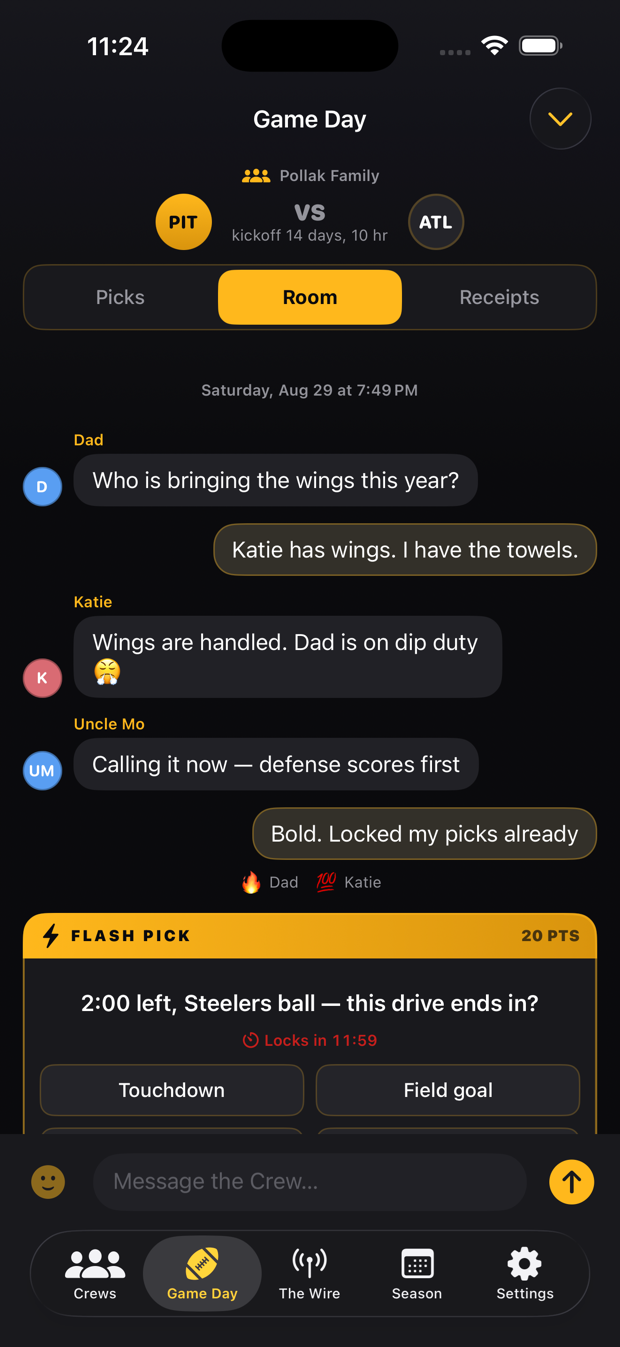
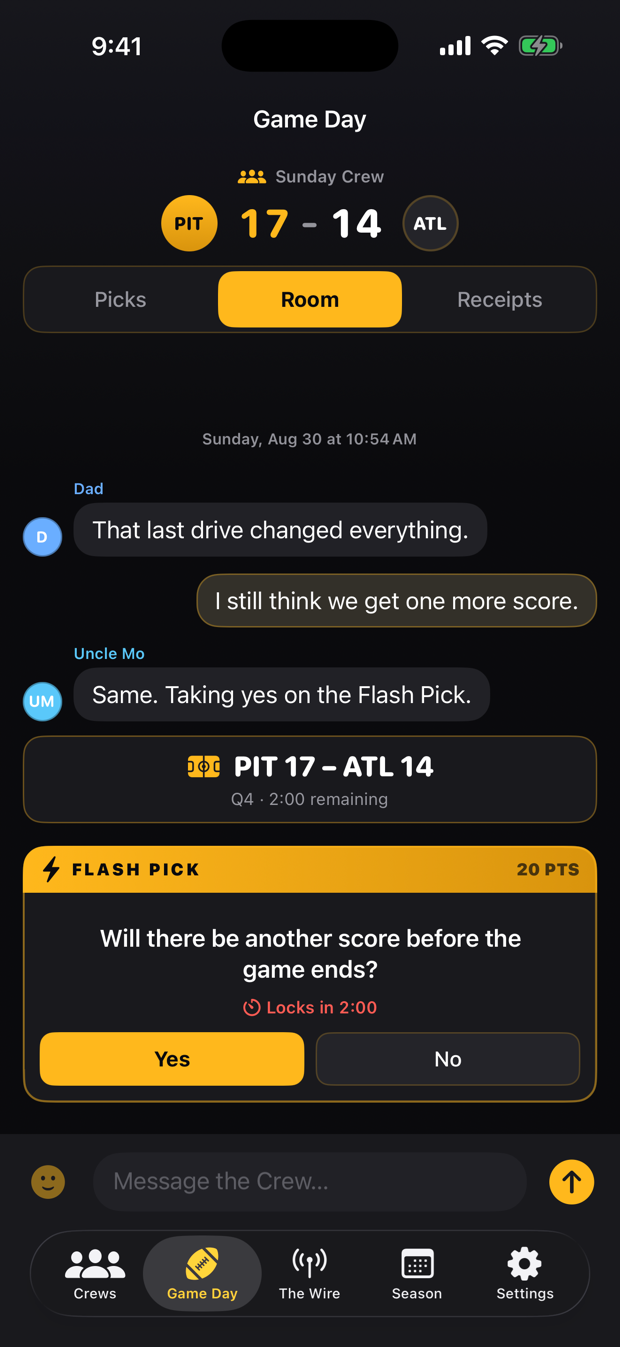
Explain required sign-in and account benefits

diff --git a/index.html b/index.html
@@ -4,14 +4,14 @@
   <meta charset="utf-8">
   <meta name="viewport" content="width=device-width, initial-scale=1">
   <title>Steel City Gameday | Steelers Picks, Polls and Crews</title>
-  <meta name="description" content="Steel City Gameday is an iPhone app for Steelers fans that adds picks, live polls, private Crew chat, and season-long standings to every game.">
+  <meta name="description" content="Steel City Gameday turns every Steelers game into a private competition with pregame picks, live Flash Picks, Crew chat, and one running season score.">
   <meta name="robots" content="index,follow,max-image-preview:large">
   <meta name="theme-color" content="#08090b">
   <link rel="canonical" href="https://steelcitygameday.com/">
   <link rel="sitemap" type="application/xml" href="https://steelcitygameday.com/sitemap.xml">
 
   <meta property="og:title" content="Steel City Gameday | Steelers Picks, Polls and Crews">
-  <meta property="og:description" content="Steel City Gameday is an iPhone app for Steelers fans that adds picks, live polls, private Crew chat, and season-long standings to every game.">
+  <meta property="og:description" content="Pregame picks. Live Flash Picks. One private Crew competition that runs all season.">
   <meta property="og:type" content="website">
   <meta property="og:url" content="https://steelcitygameday.com/">
   <meta property="og:site_name" content="Steel City Gameday">
@@ -22,7 +22,7 @@
   <meta property="og:image:alt" content="Steel City Gameday family Crew chatting and answering a live Flash Pick">
   <meta name="twitter:card" content="summary_large_image">
   <meta name="twitter:title" content="Steel City Gameday | Steelers Picks, Polls and Crews">
-  <meta name="twitter:description" content="Steel City Gameday is an iPhone app for Steelers fans that adds picks, live polls, private Crew chat, and season-long standings to every game.">
+  <meta name="twitter:description" content="Pregame picks. Live Flash Picks. One private Crew competition that runs all season.">
   <meta name="twitter:image" content="https://steelcitygameday.com/assets/og-v3.png">
   <meta name="twitter:image:alt" content="Steel City Gameday family Crew chatting and answering a live Flash Pick">
 
@@ -35,7 +35,7 @@
         "@id": "https://steelcitygameday.com/#website",
         "url": "https://steelcitygameday.com/",
         "name": "Steel City Gameday",
-        "description": "Steel City Gameday is an iPhone app for Steelers fans that adds picks, live polls, private Crew chat, and season-long standings to every game.",
+        "description": "Steel City Gameday turns every Steelers game into a private competition with pregame picks, live Flash Picks, Crew chat, and one running season score.",
         "inLanguage": "en-US"
       },
       {
@@ -43,7 +43,7 @@
         "@id": "https://steelcitygameday.com/#app",
         "name": "Steel City Gameday",
         "url": "https://steelcitygameday.com/",
-        "description": "Steel City Gameday is an iPhone app for Steelers fans that adds picks, live polls, private Crew chat, and season-long standings to every game.",
+        "description": "Steel City Gameday turns every Steelers game into a private competition with pregame picks, live Flash Picks, Crew chat, and one running season score.",
         "operatingSystem": "iOS",
         "applicationCategory": "SportsApplication",
         "image": "https://steelcitygameday.com/assets/icon.png",
@@ -87,7 +87,7 @@
             "name": "How do picks and scoring work?",
             "acceptedAnswer": {
               "@type": "Answer",
-              "text": "Make pregame picks, then answer timed Flash Picks during the game. Correct and closest calls score. Each game adds to your Crew's season standings."
+              "text": "Before kickoff, every Pregame Pick has a point value. During the game, live score, quarter, and clock updates trigger timed Flash Picks. Correct answers and closest numeric guesses earn the listed points. Each game's winner is crowned at the final whistle, and every point carries into one running season total. The tally never resets: your Crew recognizes its leader after Week 4, at halftime after Week 9, through the third quarter after Week 14, and at the end of the regular season after Week 18. Playoffs are not part of the competition."
             }
           },
           {
@@ -100,10 +100,10 @@
           },
           {
             "@type": "Question",
-            "name": "How do I sign in?",
+            "name": "Why is an account required?",
             "acceptedAnswer": {
               "@type": "Answer",
-              "text": "Use Sign in with Apple or create an account with your email address. Email accounts support confirmation links and password reset."
+              "text": "Your account keeps your private Crew membership, picks, points, messages, safety controls, and Season Pass connected to you across devices. Sign in with Apple or use an email address."
             }
           },
           {
@@ -626,7 +626,7 @@
             <span>Steelers game day,</span>
             <span class="gold">together.</span>
           </h1>
-          <p class="hero-lede">My family are huge Steelers fans, but we don't watch every game from the same house. We still text through all of it. Steel City Gameday adds pregame picks, live polls, and a competition that runs all season.</p>
+          <p class="hero-lede">I built Steel City Gameday for my family. We're all huge Steelers fans, but we don't watch every game from the same house. Now our usual game-day thread has Pregame Picks, live Flash Picks, and one competition that follows us all season.</p>
           <div class="hero-actions">
             <a class="button button-quiet" href="#experience">See how it works</a>
           </div>
@@ -654,7 +654,7 @@
         <div class="feature-copy">
           <p class="feature-kicker">Crews</p>
           <h2 class="display" id="crews-title">Your Crew doesn't need the same couch.</h2>
-          <p class="feature-lede">Bring the family thread or your game-day friends into a private Crew. Talk before kickoff and through the game, no matter where everyone is watching.</p>
+          <p class="feature-lede">I wanted our family thread to feel like one room, even when we're watching from different houses. A private Crew keeps the talk, the picks, and the running score together.</p>
           <div class="feature-points">
             <article class="feature-point">
               <h3>Private by default</h3>
@@ -673,16 +673,16 @@
       <div class="wrap feature-grid media-right">
         <div class="feature-copy">
           <p class="feature-kicker">Game Day</p>
-          <h2 class="display" id="gameday-title">Make the group text part of the game.</h2>
-          <p class="feature-lede">Make picks before kickoff. Answer live polls as the game changes. Every call counts toward your Crew's score.</p>
+          <h2 class="display" id="gameday-title">Before kickoff. Then in the moment.</h2>
+          <p class="feature-lede">Pregame Picks put points on the calls everyone makes before the game. Once the game starts, Flash Picks turn live game state into timed questions. Whoever finishes with the most points wins the game.</p>
           <div class="feature-points">
             <article class="feature-point">
-              <h3>Pick against the clock</h3>
-              <p>Choose an answer or enter a number before it locks. Correct and closest calls score.</p>
+              <h3>Pregame Picks</h3>
+              <p>Every question has a point value. Pick the correct answer—or get closest on a number—and those points go on your game score.</p>
             </article>
             <article class="feature-point">
-              <h3>Receipts, kept</h3>
-              <p>See who nailed it, who didn't, and how every point was earned.</p>
+              <h3>Flash Picks</h3>
+              <p>Live score, quarter, and clock updates trigger quick polls during the game. Answer before time runs out, then watch the points land.</p>
             </article>
           </div>
         </div>
@@ -708,16 +708,16 @@
 
         <div class="feature-copy">
           <p class="feature-kicker">Season</p>
-          <h2 class="display" id="season-title">Keep the competition going all season.</h2>
-          <p class="feature-lede">Each game adds to your Crew standings. Win a quarter, chase the season title, and reopen any game when somebody starts rewriting history.</p>
+          <h2 class="display" id="season-title">One score, carried all season.</h2>
+          <p class="feature-lede">The game's winner gets the weekly crown, but everyone's points carry into the next game. The total never resets. See who's ahead after the first quarter of the schedule, at halftime, through the third quarter, and at the end of the regular season. That's the finish line—the playoffs aren't included.</p>
           <div class="feature-points">
             <article class="feature-point">
-              <h3>Four quarter races</h3>
-              <p>Each stretch of the schedule crowns a winner on the way to the season title.</p>
+              <h3>The tally never resets</h3>
+              <p>Every point from every Pregame Pick and Flash Pick stays with you from Week 1 through the final regular-season game.</p>
             </article>
             <article class="feature-point">
-              <h3>Schedule and receipts</h3>
-              <p>Check what's next, then open completed games to settle old arguments.</p>
+              <h3>Four checkpoints</h3>
+              <p>Week 4: first-quarter leader. Week 9: halftime leader. Week 14: third-quarter leader. Week 18: regular-season champion.</p>
             </article>
           </div>
         </div>
@@ -803,15 +803,15 @@
           </article>
           <article class="faq-item">
             <h3>How do picks and scoring work?</h3>
-            <p>Make pregame picks, then answer timed Flash Picks during the game. Correct and closest calls score. Each game adds to your Crew's season standings.</p>
+            <p>Before kickoff, every Pregame Pick has a point value. During the game, live score, quarter, and clock updates trigger timed Flash Picks. Correct answers and closest numeric guesses earn the listed points. Each game's winner is crowned at the final whistle, and every point carries into one running season total that never resets. Your Crew recognizes its leader after Week 4, at halftime after Week 9, through the third quarter after Week 14, and at the end of the regular season after Week 18. Playoffs are not part of the competition.</p>
           </article>
           <article class="faq-item">
             <h3>Is Steel City Gameday free?</h3>
             <p>Crew chat and your first five played games are free. After that, a one-time 2026 Season Pass covers scored picks, receipts, and season standings. It does not renew.</p>
           </article>
           <article class="faq-item">
-            <h3>How do I sign in?</h3>
-            <p>Use Sign in with Apple or create an account with your email address. Email accounts support confirmation links and password reset.</p>
+            <h3>Why is an account required?</h3>
+            <p>Your account keeps your private Crew membership, picks, points, messages, safety controls, and Season Pass connected to you across devices. Sign in with Apple or use an email address. <a href="account/">More about signing in</a>.</p>
           </article>
           <article class="faq-item">
             <h3>Is this a betting app?</h3>
@@ -839,6 +839,7 @@
           <a href="privacy/">Privacy</a>
           <a href="terms/">Terms</a>
           <a href="support/">Support</a>
+          <a href="account/">Signing In</a>
           <a href="mailto:brettcpollak@gmail.com">Contact</a>
         </nav>
       </div>

diff --git a/account/index.html b/account/index.html
@@ -1,0 +1,64 @@
+<!doctype html>
+<html lang="en">
+<head>
+  <meta charset="utf-8">
+  <meta name="viewport" content="width=device-width, initial-scale=1">
+  <title>About Signing In — Steel City Gameday</title>
+  <meta name="description" content="Why an account is required to use Steel City Gameday and how account information supports private Crews, scoring, safety, and purchases.">
+  <meta name="robots" content="index,follow">
+  <meta name="theme-color" content="#08090b">
+  <link rel="canonical" href="https://steelcitygameday.com/account/">
+  <link rel="icon" href="../assets/icon.png">
+  <link rel="preconnect" href="https://fonts.googleapis.com">
+  <link rel="preconnect" href="https://fonts.gstatic.com" crossorigin>
+  <link href="https://fonts.googleapis.com/css2?family=Barlow+Condensed:wght@700;800;900&amp;family=Inter:wght@400;500;600;700;800&amp;display=swap" rel="stylesheet">
+  <link rel="stylesheet" href="../assets/static-page.css">
+</head>
+<body>
+  <header class="site-header">
+    <nav class="nav" aria-label="Site navigation">
+      <a class="brand" href="../" aria-label="Steel City Gameday home">
+        <img src="../assets/icon.png" alt="" width="34" height="34">
+        <span>Steel City <strong>Gameday</strong></span>
+      </a>
+      <a class="back-link" href="../">Back to home</a>
+    </nav>
+  </header>
+
+  <main class="document">
+    <p class="eyebrow">Your game day. Your account.</p>
+    <h1>About Signing In</h1>
+    <p class="effective">Why an account is required to use Steel City Gameday</p>
+
+    <section>
+      <h2>What your account connects</h2>
+      <ul>
+        <li><strong>Your private Crew:</strong> membership, invitations, role, display name, and the people you play with.</li>
+        <li><strong>Your game-day activity:</strong> picks, live votes, points, standings, receipts, messages, and reactions.</li>
+        <li><strong>Your Season Pass:</strong> the entitlement linked to your Steel City Gameday account after Apple confirms the purchase, so access can be restored across devices.</li>
+        <li><strong>Your safety controls:</strong> reports, blocks, and server-side access rules that keep private Crew content available only to signed-in members.</li>
+      </ul>
+    </section>
+
+    <section>
+      <h2>Why this requires sign-in</h2>
+      <p>Steel City Gameday is built around private groups and a season-long competition. The service must know which Crew you belong to, which activity is yours, what you can access, and where your season progress should be saved. An account provides that continuity when you change devices, reinstall the app, or return for the next game.</p>
+    </section>
+
+    <section>
+      <h2>Your sign-in choices</h2>
+      <p>Use Sign in with Apple or create an account with an email address and password. Sign in with Apple gives us an app-specific account identifier; it does not give us your Apple ID password. For email accounts, our authentication provider securely manages the password credential, and we cannot view your password.</p>
+    </section>
+
+    <section>
+      <h2>Privacy and control</h2>
+      <p>We use account information to provide, secure, and support the service. We do not sell personal information, serve ads, or track you across other companies’ apps and websites. Crews are private and invite-only, with no public feed.</p>
+      <p>You can permanently delete your account and account-linked content in the app at <strong>Settings → Delete account</strong>. Read the <a class="inline-link" href="../privacy/">Privacy Policy</a> for complete details.</p>
+    </section>
+
+    <p class="legal-note">Steel City Gameday is an independent, unofficial fan experience. It is not affiliated with or endorsed by the Pittsburgh Steelers or the NFL.</p>
+  </main>
+
+  <footer>© 2026 Steel City Gameday · <a class="inline-link" href="../privacy/">Privacy</a> · <a class="inline-link" href="../terms/">Terms</a> · <a class="inline-link" href="../support/">Support</a></footer>
+</body>
+</html>

diff --git a/support/index.html b/support/index.html
@@ -52,6 +52,7 @@
 
     <section>
       <h2>Sign in</h2>
+      <p>An account is required to use the app because it connects your private Crew membership, picks, points, messages, safety controls, and Season Pass across devices. See <a class="inline-link" href="../account/">More about signing in</a> for the complete explanation.</p>
       <p>Use the same sign-in method and account you used previously. For an email account, use Forgot password on the email sign-in screen if needed. If sign-in does not complete, confirm that the device has a network connection, restart the app, and try again. If the issue continues, send us the exact error message and app version.</p>
     </section>
 
